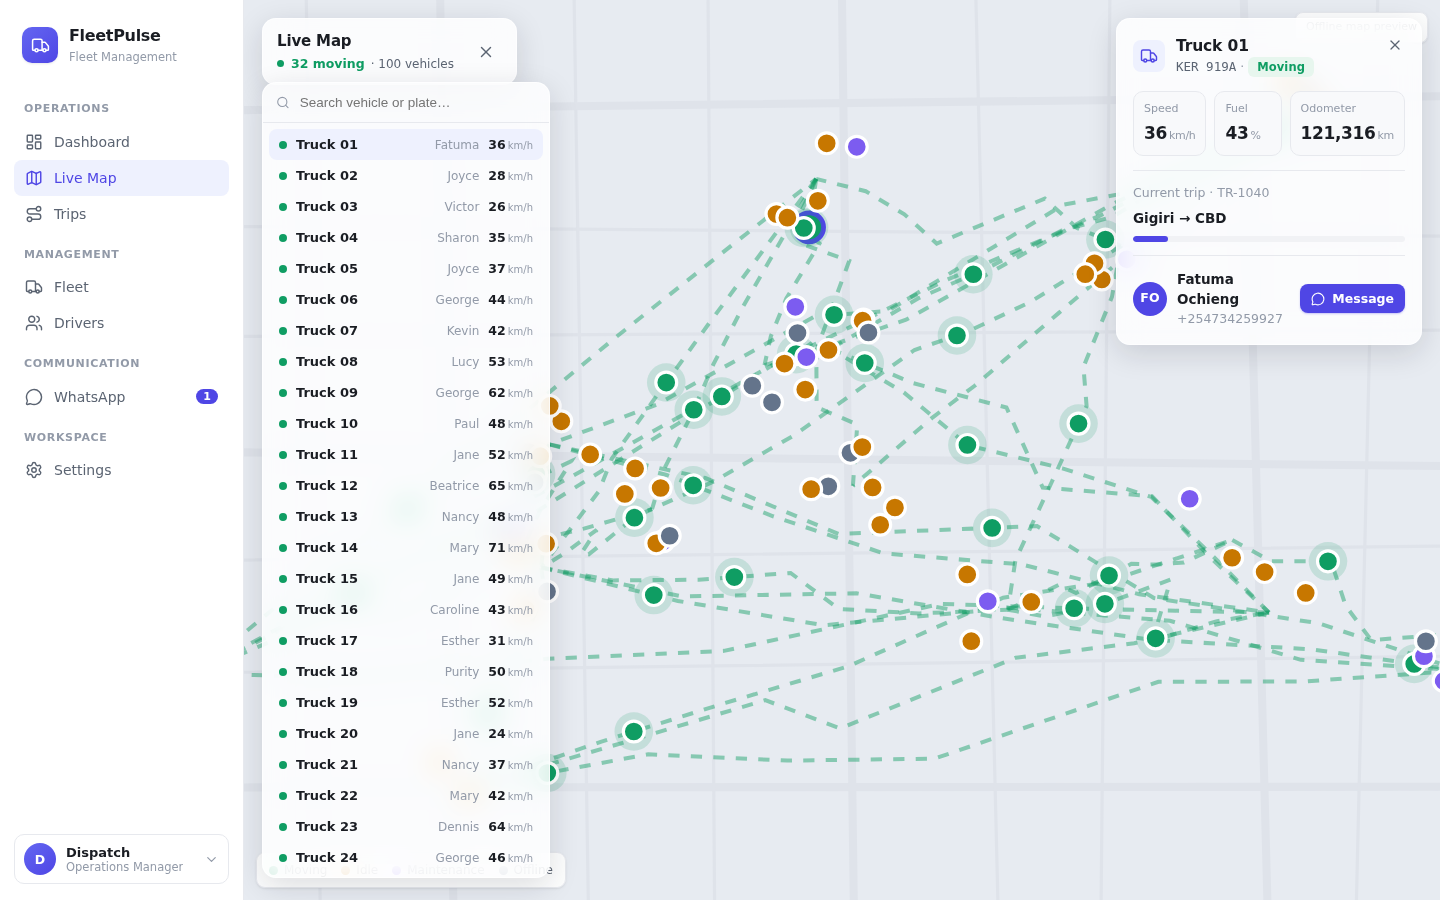
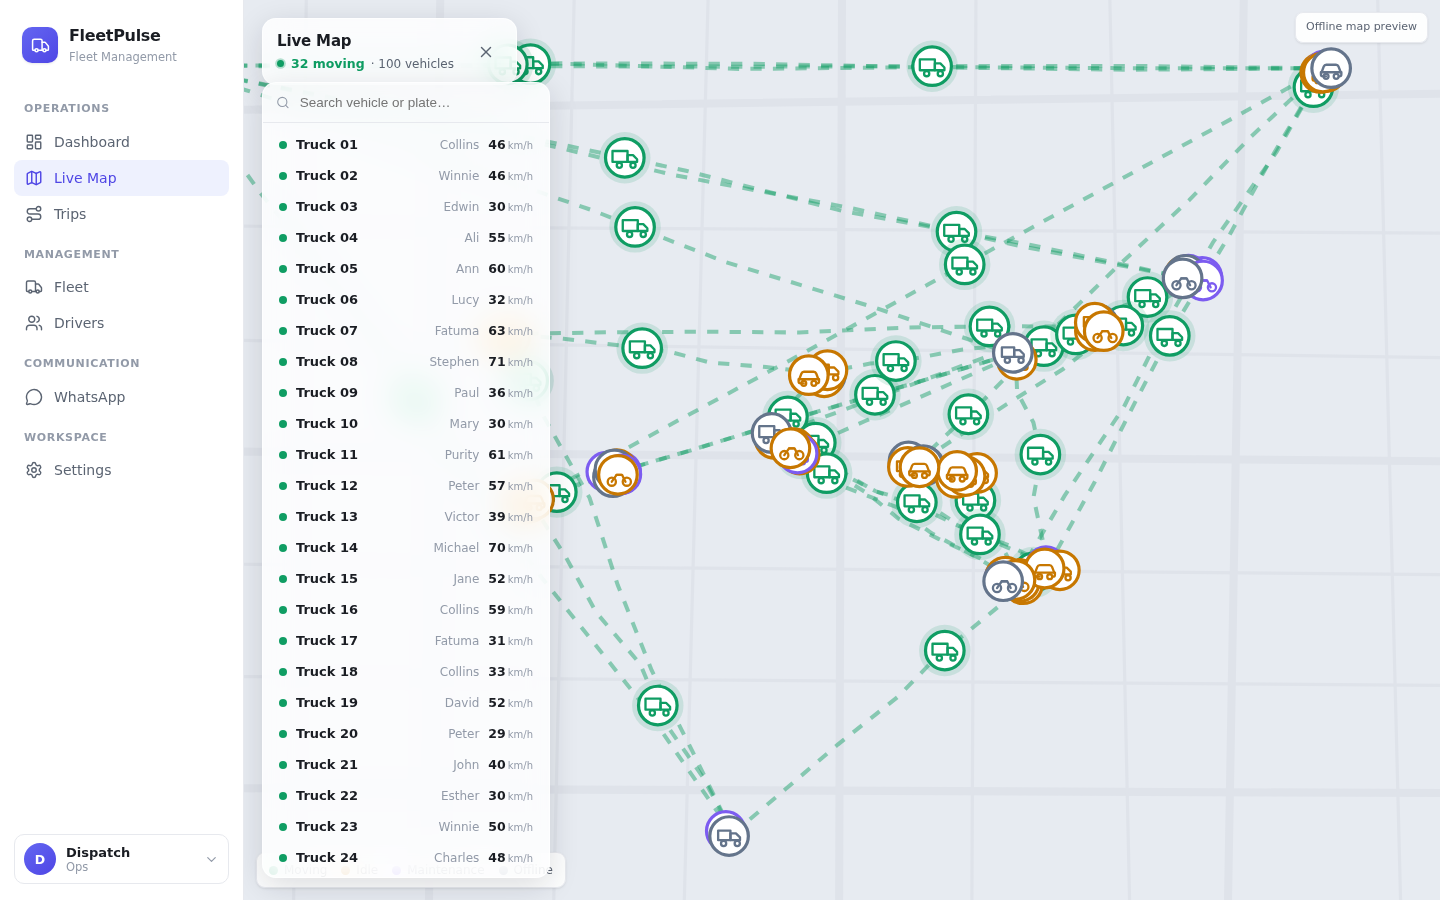
Real Kenya basemap, county-wide fleet spread, vehicle-shaped markers
- Map basemap: switch to robust CARTO Voyager RASTER tiles (real streets +
  town labels, no sprite/glyph fetches to fail) so the actual map renders
  reliably; Mapbox tiles still used when a token is set
- Geography: spread the fleet across Nairobi, Kiambu, Machakos, Kajiado,
  Murang'a and Nakuru counties; recenter/zoom to the region and auto-fit the
  full-screen map to all vehicles on load
- Markers: render each vehicle as a car / truck / van / motorbike silhouette
  in a white chip coloured by status (matching shapes in the offline fallback)
- Bump persisted-state version to v4 for the new coordinates

Claude-Session: https://claude.ai/code/session_01Ts7gEBKnRPaXyikckG3x7J

diff --git a/src/components/FleetMap.tsx b/src/components/FleetMap.tsx
@@ -1,6 +1,7 @@
 import { useEffect, useMemo, useRef, useState } from 'react'
 import type { Vehicle, LngLat } from '@/lib/types'
-import { MAP_CENTER } from '@/data/seed'
+import { MAP_CENTER, MAP_ZOOM } from '@/data/seed'
+import { markerSVG, VEHICLE_SHAPES } from './vehicleMarker'
 
 interface Props {
   vehicles: Vehicle[]
@@ -18,9 +19,26 @@ const STATUS_COLOR: Record<Vehicle['status'], string> = {
   maintenance: '#7c5cf0',
 }
 
-// Free, no-token vector basemap (CARTO Positron) — a real interactive map that
-// works out of the box. A Mapbox token upgrades to Mapbox styles.
-const CARTO_POSITRON = 'https://basemaps.cartocdn.com/gl/positron-gl-style/style.json'
+// Free, no-token RASTER basemap (CARTO Voyager) — real streets and town labels.
+// Raster tiles are far more robust than a vector style (no sprite/glyph fetches
+// to fail), so the actual map shows reliably. A Mapbox token upgrades to Mapbox.
+// eslint-disable-next-line @typescript-eslint/no-explicit-any
+const CARTO_RASTER_STYLE: any = {
+  version: 8,
+  sources: {
+    carto: {
+      type: 'raster',
+      tiles: [
+        'https://a.basemaps.cartocdn.com/rastertiles/voyager/{z}/{x}/{y}@2x.png',
+        'https://b.basemaps.cartocdn.com/rastertiles/voyager/{z}/{x}/{y}@2x.png',
+        'https://c.basemaps.cartocdn.com/rastertiles/voyager/{z}/{x}/{y}@2x.png',
+      ],
+      tileSize: 256,
+      attribution: '© OpenStreetMap © CARTO',
+    },
+  },
+  layers: [{ id: 'carto', type: 'raster', source: 'carto' }],
+}
 
 export function FleetMap(props: Props) {
   const [failed, setFailed] = useState(false)
@@ -57,13 +75,13 @@ function GLMap({ vehicles, token, height = 460, fill, selectedId, onSelect, onFa
 
         const style = token
           ? `https://api.mapbox.com/styles/v1/mapbox/streets-v12?access_token=${token}`
-          : CARTO_POSITRON
+          : CARTO_RASTER_STYLE
 
         const map = new maplibregl.Map({
           container: containerRef.current,
           style,
           center: MAP_CENTER,
-          zoom: 11.2,
+          zoom: MAP_ZOOM,
           attributionControl: false,
           // Rewrite Mapbox protocol URLs so Mapbox styles work through MapLibre.
           transformRequest: token
@@ -89,6 +107,13 @@ function GLMap({ vehicles, token, height = 460, fill, selectedId, onSelect, onFa
             paint: { 'line-color': '#4f46e5', 'line-width': 2.5, 'line-opacity': 0.4, 'line-dasharray': [2, 2] },
           })
           syncMarkers()
+          // Frame the whole fleet (spread across counties) on first load.
+          if (!fill) return
+          const pts = vehicles.map((v) => v.position)
+          if (pts.length > 1) {
+            const b = pts.reduce((acc, p) => acc.extend(p), new maplibregl.LngLatBounds(pts[0], pts[0]))
+            map.fitBounds(b, { padding: { top: 90, bottom: 60, left: 320, right: 340 }, maxZoom: 11, duration: 0 })
+          }
         })
         map.on('error', (e: unknown) => {
           // Style/tiles failed to load (e.g. offline) — drop to the SVG fallback.
@@ -119,13 +144,14 @@ function GLMap({ vehicles, token, height = 460, fill, selectedId, onSelect, onFa
       if (!marker) {
         const el = document.createElement('div')
         el.className = 'veh-marker'
+        el.innerHTML = markerSVG(v.type) // car / truck / van / bike silhouette
         el.addEventListener('click', () => onSelectRef.current?.(v.id))
         marker = new maplibregl.Marker({ element: el }).setLngLat(v.position).addTo(map)
         markersRef.current[v.id] = marker
       }
       marker.setLngLat(v.position)
       const el = marker.getElement() as HTMLDivElement
-      el.style.background = STATUS_COLOR[v.status]
+      el.style.color = STATUS_COLOR[v.status]
       el.classList.toggle('selected', v.id === selectedId)
       el.classList.toggle('moving', v.status === 'moving')
     })
@@ -169,7 +195,7 @@ function routeGeoJSON(vehicles: Vehicle[]): any {
 // SVG fallback — only used if the map library/tiles cannot load (offline).
 // ---------------------------------------------------------------------------
 function SvgMap({ vehicles, height = 460, fill, selectedId, onSelect }: Props) {
-  const bounds = useMemo(() => ({ minLng: 36.68, maxLng: 36.96, minLat: -1.36, maxLat: -1.2 }), [])
+  const bounds = useMemo(() => ({ minLng: 36.35, maxLng: 37.35, minLat: -1.95, maxLat: -0.62 }), [])
   const W = 1000
   const H = 560
   const project = (c: LngLat): [number, number] => {
@@ -199,10 +225,13 @@ function SvgMap({ vehicles, height = 460, fill, selectedId, onSelect }: Props) {
         {vehicles.map((v) => {
           const [x, y] = project(v.position)
           const selected = v.id === selectedId
+          const c = STATUS_COLOR[v.status]
           return (
             <g key={v.id} transform={`translate(${x} ${y})`} style={{ cursor: 'pointer' }} onClick={() => onSelect?.(v.id)}>
-              {v.status === 'moving' && <circle r={12} fill={STATUS_COLOR[v.status]} opacity={0.16} />}
-              <circle r={selected ? 9 : 6.5} fill={STATUS_COLOR[v.status]} stroke={selected ? '#4f46e5' : '#fff'} strokeWidth={selected ? 3 : 2} />
+              {v.status === 'moving' && <circle r={16} fill={c} opacity={0.14} />}
+              <circle r={selected ? 14 : 12} fill="#fff" stroke={selected ? '#4f46e5' : c} strokeWidth={selected ? 3 : 2} />
+              <g transform="translate(-8.5 -8.5) scale(0.85)" fill="none" stroke={c} strokeWidth={1.7} strokeLinecap="round" strokeLinejoin="round"
+                dangerouslySetInnerHTML={{ __html: VEHICLE_SHAPES[v.type] }} />
             </g>
           )
         })}

diff --git a/src/data/seed.ts b/src/data/seed.ts
@@ -1,26 +1,37 @@
 import type { AppState, Driver, LngLat, Trip, Vehicle } from '@/lib/types'
 import { buildRoute, routeLengthKm } from '@/lib/geo'
 
-// Demo fleet operates around Nairobi, Kenya.
-export const MAP_CENTER: LngLat = [36.8219, -1.2921]
+// Demo fleet operates across several counties in south-central Kenya. The map
+// centre sits between Nairobi and Kiambu so the whole spread is visible.
+export const MAP_CENTER: LngLat = [36.95, -1.05]
+export const MAP_ZOOM = 8.2
 
-// A few recognisable landmarks used as trip endpoints.
+// Towns across Nairobi, Kiambu, Machakos, Kajiado, Murang'a and Nakuru counties,
+// used as trip endpoints and idle parking spots.
 const PLACES: Record<string, LngLat> = {
-  CBD: [36.8219, -1.2864],
+  // Nairobi County
+  'Nairobi CBD': [36.8219, -1.2864],
   Westlands: [36.8065, -1.2649],
-  'JKIA Airport': [36.9278, -1.3192],
-  Karen: [36.7073, -1.3197],
-  'Industrial Area': [36.8489, -1.3084],
-  Ruaraka: [36.8686, -1.2437],
-  Kasarani: [36.8969, -1.2216],
-  'Ngong Road': [36.7676, -1.3009],
-  Gigiri: [36.8155, -1.2318],
   Embakasi: [36.8944, -1.3089],
-  Kilimani: [36.7869, -1.2905],
-  Lavington: [36.7690, -1.2790],
-  Parklands: [36.8180, -1.2620],
-  Donholm: [36.8880, -1.2960],
-  Langata: [36.7550, -1.3400],
+  Karen: [36.7073, -1.3197],
+  'JKIA Airport': [36.9278, -1.3192],
+  // Kiambu County
+  Thika: [37.0693, -1.0333],
+  Ruiru: [36.9580, -1.1450],
+  'Kiambu Town': [36.8356, -1.1714],
+  Limuru: [36.6420, -1.1136],
+  Juja: [37.0110, -1.1030],
+  // Machakos County
+  'Machakos Town': [37.2634, -1.5177],
+  'Athi River': [36.9784, -1.4560],
+  // Kajiado County
+  Kitengela: [36.9575, -1.4778],
+  Ngong: [36.6560, -1.3606],
+  Kajiado: [36.7820, -1.8523],
+  // Murang'a County
+  "Murang'a": [37.1500, -0.7210],
+  // Nakuru County
+  Naivasha: [36.4310, -0.7167],
 }
 
 const placeNames = Object.keys(PLACES)

diff --git a/src/index.css b/src/index.css
@@ -1268,21 +1268,25 @@ input[type='range']::-moz-range-thumb {
 /* Sidebar spacer replacing the removed sim box */
 .nav-spacer { flex: 1; }
 
-/* MapLibre vehicle markers */
+/* MapLibre vehicle markers — a white chip holding the vehicle-shape glyph */
 .veh-marker {
-  width: 14px; height: 14px; border-radius: 50%;
-  border: 2.5px solid #fff; box-shadow: 0 1px 4px rgba(20, 24, 34, 0.4);
-  cursor: pointer; transition: transform 0.2s;
+  position: relative;
+  width: 28px; height: 28px; border-radius: 50%;
+  background: #fff; border: 2px solid currentColor;
+  display: grid; place-items: center;
+  box-shadow: 0 2px 6px rgba(20, 24, 34, 0.28);
+  cursor: pointer; transition: transform 0.18s;
 }
-.veh-marker.selected { transform: scale(1.55); border-color: #4f46e5; z-index: 3; }
+.veh-marker svg { display: block; }
+.veh-marker.selected { transform: scale(1.28); z-index: 4; box-shadow: 0 0 0 3px rgba(79, 70, 229, 0.35), 0 3px 8px rgba(20, 24, 34, 0.3); }
 .veh-marker.moving::after {
-  content: ''; position: absolute; inset: -5px; border-radius: 50%;
-  border: 2px solid currentColor; opacity: 0; color: inherit;
-  animation: marker-pulse 2s ease-out infinite;
+  content: ''; position: absolute; inset: -3px; border-radius: 50%;
+  border: 2px solid currentColor; opacity: 0;
+  animation: marker-pulse 2.2s ease-out infinite;
 }
 @keyframes marker-pulse {
-  0% { transform: scale(0.6); opacity: 0.5; }
-  100% { transform: scale(1.8); opacity: 0; }
+  0% { transform: scale(0.7); opacity: 0.55; }
+  100% { transform: scale(1.9); opacity: 0; }
 }
 .maplibregl-ctrl-group { border-radius: 8px !important; box-shadow: var(--shadow-sm) !important; }
 

diff --git a/src/components/vehicleMarker.ts b/src/components/vehicleMarker.ts
@@ -1,0 +1,22 @@
+import type { Vehicle } from '@/lib/types'
+
+// Inline SVG silhouettes for map markers (strings, not React — markers are raw
+// DOM elements). `currentColor` picks up the status colour set on the element.
+export const VEHICLE_SHAPES: Record<Vehicle['type'], string> = {
+  truck:
+    '<path d="M1 5h11v8H1z"/><path d="M12 8h4l3 3v2h-7z"/><circle cx="6" cy="15.5" r="1.9"/><circle cx="16" cy="15.5" r="1.9"/>',
+  van:
+    '<path d="M2 6h9v7H2z"/><path d="M11 8h4l3 3v2h-7z"/><circle cx="6" cy="15.5" r="1.9"/><circle cx="16" cy="15.5" r="1.9"/>',
+  car:
+    '<path d="M3 13l1.6-4.2A2 2 0 0 1 6.5 7.5h7A2 2 0 0 1 15.4 8.8L17 13"/><path d="M2.5 13h15v1.5a1.5 1.5 0 0 1-1.5 1.5h-.3M6.3 16H4a1.5 1.5 0 0 1-1.5-1.5V13"/><circle cx="6.3" cy="16" r="1.8"/><circle cx="13.7" cy="16" r="1.8"/>',
+  bike:
+    '<circle cx="5.5" cy="15" r="3"/><circle cx="16.5" cy="15" r="3"/><path d="M5.5 15l3.5-5h4l2.5 5"/><path d="M9 10h3.5"/>',
+}
+
+/** Returns a full <svg> string for a vehicle type, stroked in currentColor. */
+export function markerSVG(type: Vehicle['type']): string {
+  return (
+    `<svg viewBox="0 0 20 20" width="17" height="17" fill="none" stroke="currentColor" ` +
+    `stroke-width="1.7" stroke-linecap="round" stroke-linejoin="round">${VEHICLE_SHAPES[type]}</svg>`
+  )
+}

diff --git a/src/lib/store.ts b/src/lib/store.ts
@@ -1,7 +1,7 @@
 import type { AppState } from './types'
 import { buildSeedState } from '@/data/seed'
 
-const STORAGE_KEY = 'fleetpulse.state.v3'
+const STORAGE_KEY = 'fleetpulse.state.v4'
 
 type Listener = () => void
 
